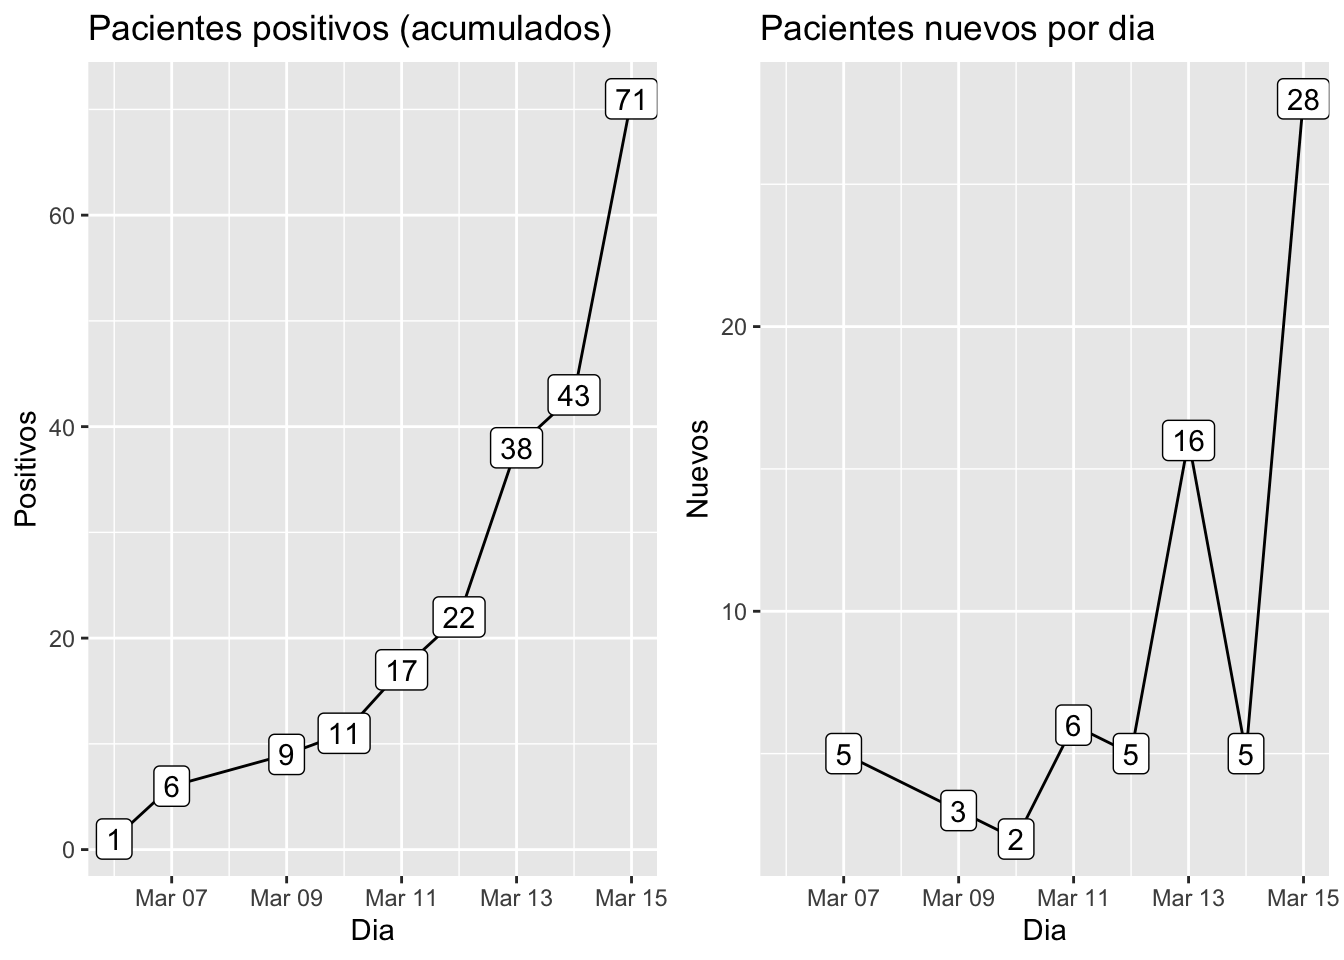
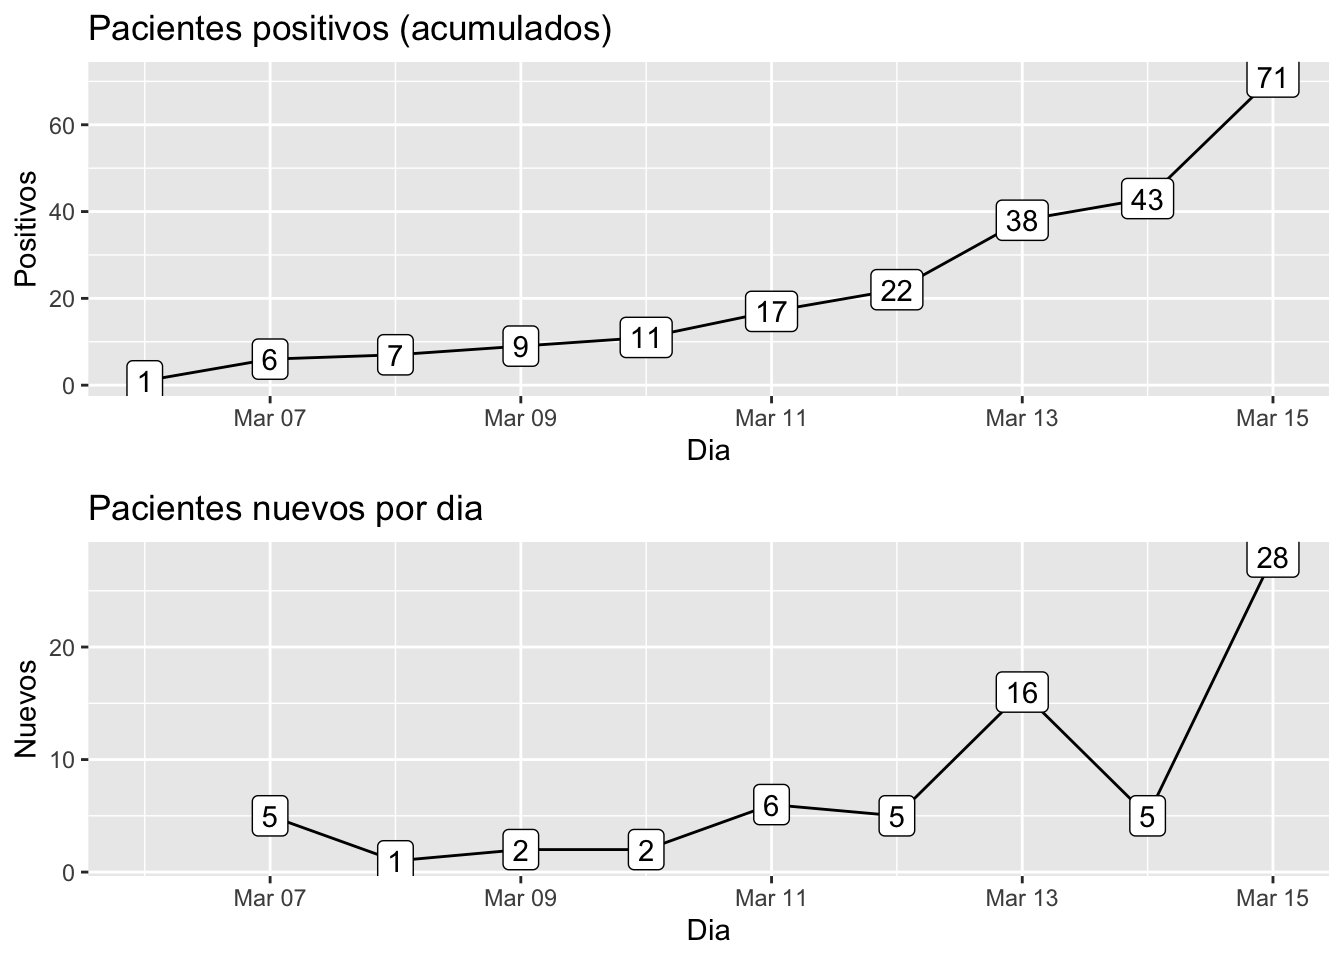
Update Propagacion

diff --git a/docs/Propagacion.html b/docs/Propagacion.html
@@ -443,6 +443,23 @@ NA
 </tr>
 <tr>
 <td style="text-align:left;">
+2020-03-08
+</td>
+<td style="text-align:right;">
+7
+</td>
+<td style="text-align:right;">
+250
+</td>
+<td style="text-align:right;">
+31
+</td>
+<td style="text-align:right;">
+1
+</td>
+</tr>
+<tr>
+<td style="text-align:left;">
 2020-03-09
 </td>
 <td style="text-align:right;">
@@ -452,10 +469,10 @@ NA
 318
 </td>
 <td style="text-align:right;">
-99
+68
 </td>
 <td style="text-align:right;">
-3
+2
 </td>
 </tr>
 <tr>
@@ -565,6 +582,69 @@ NA
 </div>
 <div id="mapa" class="section level2">
 <h2><span class="header-section-number">0.3</span> Mapa</h2>
+</div>
+<div id="fuentes" class="section level2">
+<h2><span class="header-section-number">0.4</span> Fuentes</h2>
+<p>Para la construcción de la tabla he usado la información difundida por MINSA en su cuenta oficial de twitter <span class="citation">[@Minsa_Peru]</span>(<a href="https://twitter.com/Minsa_Peru" class="uri">https://twitter.com/Minsa_Peru</a>)</p>
+<p>03/15</p>
+<blockquote class="twitter-tweet">
+<p lang="es" dir="ltr">
+🗓 Reporte │ Esta es la situación del coronavirus en Perú hasta las 13:10 horas del 15 de marzo. <br><br>Para más información, visita: <a href="https://t.co/F4GaDrvulE">https://t.co/F4GaDrvulE</a> <a href="https://t.co/HUR87UVlxQ">pic.twitter.com/HUR87UVlxQ</a>
+</p>
+— Ministerio de Salud (<span class="citation">@Minsa_Peru</span>) <a href="https://twitter.com/Minsa_Peru/status/1239264360549224449?ref_src=twsrc%5Etfw">March 15, 2020</a>
+</blockquote>
+<script async src="https://platform.twitter.com/widgets.js" charset="utf-8"></script>
+<p>03/14</p>
+<blockquote class="twitter-tweet">
+<p lang="es" dir="ltr">
+🗓 Reporte │ Esta es la situación del coronavirus en Perú hasta las 19:20 horas del 14 de marzo. <br><br>Para más información, visita: <a href="https://t.co/F4GaDrvulE">https://t.co/F4GaDrvulE</a> <a href="https://t.co/102MJF7uPE">pic.twitter.com/102MJF7uPE</a>
+</p>
+— Ministerio de Salud (<span class="citation">@Minsa_Peru</span>) <a href="https://twitter.com/Minsa_Peru/status/1238994119646744578?ref_src=twsrc%5Etfw">March 15, 2020</a>
+</blockquote>
+<script async src="https://platform.twitter.com/widgets.js" charset="utf-8"></script>
+<p>03/13</p>
+<blockquote class="twitter-tweet">
+<p lang="es" dir="ltr">
+🗓 Reporte │ Esta es la situación del coronavirus en Perú hasta las 16:00 horas del 13 de marzo. <br><br>Para más información, visita: <a href="https://t.co/ATXAITDSWN">https://t.co/ATXAITDSWN</a> <a href="https://t.co/ERDFeBV7Tq">pic.twitter.com/ERDFeBV7Tq</a>
+</p>
+— Ministerio de Salud (<span class="citation">@Minsa_Peru</span>) <a href="https://twitter.com/Minsa_Peru/status/1238579158852263936?ref_src=twsrc%5Etfw">March 13, 2020</a>
+</blockquote>
+<script async src="https://platform.twitter.com/widgets.js" charset="utf-8"></script>
+<p>03/12</p>
+<blockquote class="twitter-tweet">
+<p lang="es" dir="ltr">
+🗓 Reporte │ Esta es la situación del coronavirus en Perú hasta las 9:55 horas del 12 de marzo. <br><br>Para más información, visita: <a href="https://t.co/ATXAITDSWN">https://t.co/ATXAITDSWN</a> <a href="https://t.co/Yr2gGdPc1f">pic.twitter.com/Yr2gGdPc1f</a>
+</p>
+— Ministerio de Salud (<span class="citation">@Minsa_Peru</span>) <a href="https://twitter.com/Minsa_Peru/status/1238126203485270022?ref_src=twsrc%5Etfw">March 12, 2020</a>
+</blockquote>
+<script async src="https://platform.twitter.com/widgets.js" charset="utf-8"></script>
+<p>03/11</p>
+<blockquote class="twitter-tweet">
+<p lang="es" dir="ltr">
+🗓 Reporte │ Esta es la situación del coronavirus en Perú hasta las 20:00 horas del 11 de marzo. <br><br>Para más información, visita: <a href="https://t.co/ATXAITDSWN">https://t.co/ATXAITDSWN</a> <a href="https://t.co/RgArH78FMz">pic.twitter.com/RgArH78FMz</a>
+</p>
+— Ministerio de Salud (<span class="citation">@Minsa_Peru</span>) <a href="https://twitter.com/Minsa_Peru/status/1237916429975945217?ref_src=twsrc%5Etfw">March 12, 2020</a>
+</blockquote>
+<script async src="https://platform.twitter.com/widgets.js" charset="utf-8"></script>
+<p>03/10</p>
+<blockquote class="twitter-tweet">
+<p lang="es" dir="ltr">
+🗓 Reporte │ Esta es la situación del coronavirus en Perú hasta las 8:00 horas del 10 de marzo. <br><br>Para más información, visita: <a href="https://t.co/Mv594Y83Y2">https://t.co/Mv594Y83Y2</a> <a href="https://t.co/y5o2DZffuL">pic.twitter.com/y5o2DZffuL</a>
+</p>
+— Ministerio de Salud (<span class="citation">@Minsa_Peru</span>) <a href="https://twitter.com/Minsa_Peru/status/1237366697591541766?ref_src=twsrc%5Etfw">March 10, 2020</a>
+</blockquote>
+<script async src="https://platform.twitter.com/widgets.js" charset="utf-8"></script>
+<p>03/09</p>
+<blockquote class="twitter-tweet">
+<p lang="es" dir="ltr">
+🗓 Reporte │ Esta es la situación del coronavirus en Perú hasta las 8:30 horas del 9 de marzo. <br><br>Para más información, visita: <a href="https://t.co/ATXAITDSWN">https://t.co/ATXAITDSWN</a> <a href="https://t.co/VUWdMFaJkJ">pic.twitter.com/VUWdMFaJkJ</a>
+</p>
+— Ministerio de Salud (<span class="citation">@Minsa_Peru</span>) <a href="https://twitter.com/Minsa_Peru/status/1237064965468667904?ref_src=twsrc%5Etfw">March 9, 2020</a>
+</blockquote>
+<script async src="https://platform.twitter.com/widgets.js" charset="utf-8"></script>
+<p>03/08</p>
+<p><a href="https://www.americatv.com.pe/noticias/actualidad/minsa-confirma-nuevo-caso-coronavirus-peru-n407677?hootPostID=e28f310a3c6b843dce1663d1e934ffed" class="uri">https://www.americatv.com.pe/noticias/actualidad/minsa-confirma-nuevo-caso-coronavirus-peru-n407677?hootPostID=e28f310a3c6b843dce1663d1e934ffed</a></p>
+<p>Este tweet fue RT por el Minsa, por eso asumo que es la información oficial. MINSA no publicó ningún reporte como en los dias anteriores o posteriores.</p>
 </div>
 
 

diff --git a/docs/Fuentes.html b/docs/Fuentes.html
@@ -389,8 +389,9 @@ div.tocify {
 </div>
 <div id="ensayos-clinicos-en-humanos" class="section level3">
 <h3><span class="header-section-number">0.1.5</span> Ensayos clínicos en humanos</h3>
-<p><a href="http://apps.who.int/trialsearch/AdvSearch.aspx?SearchTermStat=117&amp;ReturnUrl=%7e%2fListBy.aspx%3fTypeListing%3d0">OMS</a>
-<a href="https://clinicaltrials.gov">Clinical-trials</a></p>
+<p><a href="http://apps.who.int/trialsearch/AdvSearch.aspx?SearchTermStat=117&amp;ReturnUrl=%7e%2fListBy.aspx%3fTypeListing%3d0">Organizacion Mundial de la Salud</a>
+###### 392 estudios sobre diagnóstico, medicamentos y vacunas al 15 de Marzo del 2020.</p>
+<p><a href="https://clinicaltrials.gov">Clinical-trials</a></p>
 </div>
 </div>
 <div id="legislacion-especial" class="section level2">
